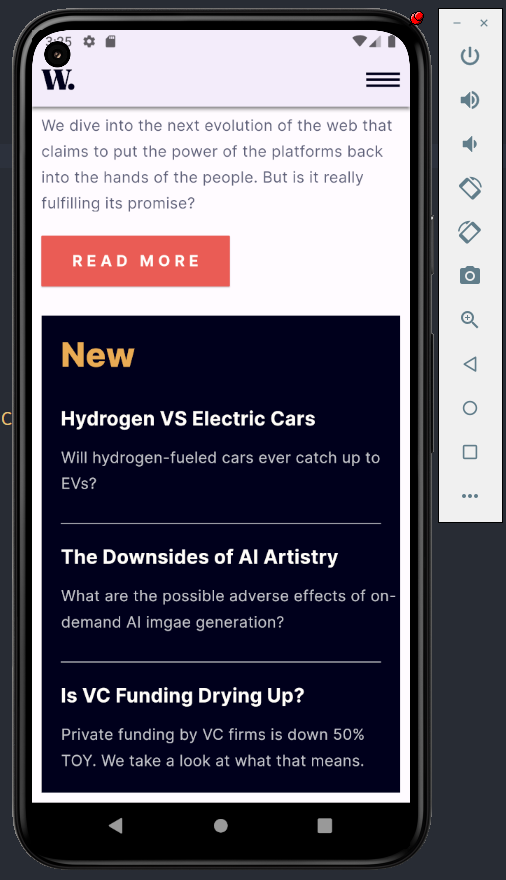
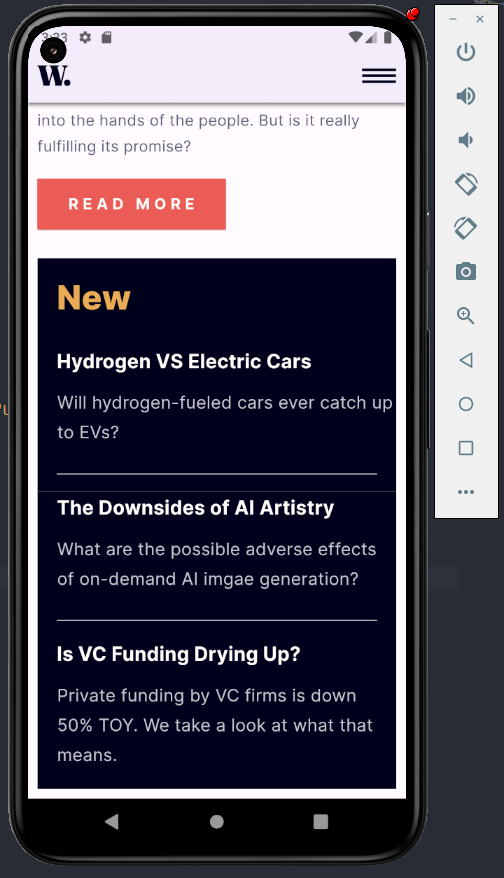
feat/change fontsize

Changed region(s): [[0.0, 0.0, 1.0, 0.9841], [0.6548, 0.4305, 0.7143, 0.4613], [0.9226, 0.3998, 0.9524, 0.4305]]

diff --git a/lib/view/new_view.dart b/lib/view/new_view.dart
@@ -57,7 +57,7 @@ class NewView extends StatelessWidget {
                         child: Text(
                             description!,
                             style: TextStyle(
-                                fontSize: 16,
+                                fontSize: 18,
                                 fontWeight: FontWeight.w400,
                                 height: 1.7,
                                 color: ColorTheme.softBlue,
